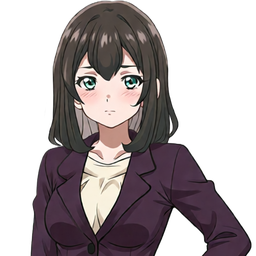
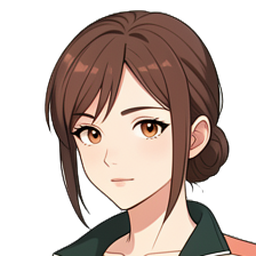
G4a-MAYU: integrate complete Mayu v7 character package (#314)
* Integrate Mayu v7 seven-asset sporty character package

* Refresh reviewed Linux WebKit lineup digest for Mayu v7

diff --git a/tests/CharacterArchiveAdoption.test.ts b/tests/CharacterArchiveAdoption.test.ts
@@ -8,7 +8,9 @@ import {
   type ProductionCharacterKey,
 } from '../src/data/characterProduction';
 
[1 lines of base64/hex data omitted]
+// Original archive baseline, with the complete Mayu v7 replacement integrated
+// on 2026-10-01. Provenance: docs/reviews/MAYU_V7_INTEGRATION_2026-10-01.md.
[1 lines of base64/hex data omitted]
 const characterDigests: Readonly<Record<ProductionCharacterKey, string>> = {
[2 lines of base64/hex data omitted]
@@ -16,7 +18,7 @@ const characterDigests: Readonly<Record<ProductionCharacterKey, string>> = {
[7 lines of base64/hex data omitted]
 };
@@ -38,7 +40,7 @@ const digestAssets = (paths: readonly string[]): string => sha256(
 );
 
 describe('ANM-030B0C complete character archive adoption', () => {
-  it('locks every seven-asset character package to the approved source archive', () => {
+  it('locks every seven-asset character package to its adopted source baseline', () => {
     for (const key of productionCharacterKeys) {
       const paths = assetsFor(key);
       expect(paths, key).toHaveLength(7);

diff --git a/e2e/tests/visual-regression.pw.ts b/e2e/tests/visual-regression.pw.ts
@@ -24,7 +24,10 @@ const goldenOptions = {
   maxDiffPixelRatio: 0.002,
 } as const;
 
[1 lines of base64/hex data omitted]
+// Linux mobile WebKit baseline after the complete Mayu v7 replacement.
+// Reviewed CI attachment: run 36854301920; both attempts produced this digest.
+// Provenance: docs/reviews/MAYU_V7_INTEGRATION_2026-10-01.md.
[1 lines of base64/hex data omitted]
 
 async function waitForVisualIdle(page: Page): Promise<void> {
   await expect.poll(async () => page.locator('img').evaluateAll((images) =>

diff --git a/src/data/characterProduction.ts b/src/data/characterProduction.ts
@@ -201,8 +201,8 @@ export const characterProductionManifest: CharacterProductionManifest = {
     mayu: production(
       'mayu', 'Маю Хаясака', 'Маю', 'МАЮ', 'exact',
       'pose_b_phone_documents.png', 'portrait_neutral_256.png',
-      { left: 268, top: 29, right: 756, bottom: 1508 },
-      190,
+    { left: 295, top: 42, right: 728, bottom: 1521 },
+    176,
     ),
     rina: production(
       'rina', 'Рина Сираиси', 'Рина', 'РИНА', 'exact',

diff --git a/docs/reviews/G4A_ART_REVIEW_2026-09-30.md b/docs/reviews/G4A_ART_REVIEW_2026-09-30.md
@@ -37,11 +37,19 @@ G0 остаётся accepted; KI-002 проверяется отдельно в 
 Канон: 22 года, экономика, казначей студсовета и посредник администрации;
 роль и сюжет не меняются. Причина отказа: слишком похожа на Мику.
 
-1. Создать один новый neutral master как кандидат вне `public/assets` и runtime manifest.
-   Предложение: собранные каштановые волосы с открытым лбом, янтарные глаза,
-   тёмно-зелёный жакет, простая поза с опущенными руками. Это не утверждённый новый канон внешности.
-2. Утвердить с пользователем лицо, причёску, палитру, взрослую внешность и отличие от Мику;
-   проверить рядом с остальным составом. Генерация сама по себе не является приёмкой.
+1. **Дизайн и основная поза утверждены пользователем 2026-09-30.** Дизайн v5b:
+   каштановые волосы в низкой гуле, янтарные глаза, короткий жёлтый спортивный топ,
+   укороченная зелёная мастерка с молочными рукавами и коралловыми вставками,
+   тёмно-синие джоггеры и сочетающиеся кроссовки. Основной master — v6:
+   лёгкий разворот корпуса, обе руки за спиной, без повторяющейся руки на бедре.
+   Использован финальный гостевой ComfyUI v10 TRUE_3D / Flux2-Klein, два прохода по 8 шагов.
+2. Утверждённый локальный master: `output/art-review/mayu-neutral-v6-primary.png`
[1 lines of base64/hex data omitted]
+   white-reference: `output/art-review/mayu-neutral-v6-primary-white.png`
[1 lines of base64/hex data omitted]
+   Это исходник 624×1248 вне runtime, ещё не нормализованный production asset.
+   Проверка lineup/eye-line/роста рядом с остальным составом остаётся обязательной.
+   Приёмка дизайна и основной позы не переносится автоматически на остальные эмоции.
 3. Только после утверждения подготовить согласованные neutral/smile/serious/surprised/
    embarrassed Pose A, `pose_b_phone_documents.png` и `portrait_neutral_256.png`.
 4. Для stage assets сохранить контракт 1024×1536 RGBA, pivot `(0.5, 1)`, общую камеру/
@@ -51,6 +59,21 @@ G0 остаётся accepted; KI-002 проверяется отдельно в 
    приёмку новых hash и проверить реальные сцены/портрет/телефон. Не смешивать старый
    дизайн Маю с новым и не менять утверждённые assets остальных персонажей.
 
-Старые файлы пока остаются runtime fallback. G4a-MAYU не accepted и G4a не закрыт.
+### Пакет Маю v7 — локально интегрирован 2026-10-01
+
+От утверждённого v6 подготовлены семь кандидатных PNG в
+`output/art-review/mayu-v7-package/candidate/public/assets/characters/mayu/`:
+пять Pose A, Pose B с телефоном и документами, neutral portrait.
+Stage canvas — 1024×1536 RGBA, portrait — 256×256 RGBA, alpha-height — 1479 px.
+Проверены одинаковые alpha bounds всех пяти Pose A, неизменность pixels за пределами
+face ROI и точное совпадение alpha. Промпты, hash/геометрия и QA сохранены рядом с пакетом.
+По запросу пользователя все семь PNG заменены в runtime 2026-10-01 без смешивания
+дизайнов. Metadata обновлены: Pose A bounds `(295,42)-(728,1521)`, eye-line 176 px;
+рост 1479 px сохранён. Подробности и hash: [интеграция v7](MAYU_V7_INTEGRATION_2026-10-01.md).
+Ручная lineup/scene/device приёмка остаётся открытой. Старый экспорт ревью и его
+33 rework / 13 blocker не переписаны; они описывают исходные изображения, не v7.
+
+Старые файлы вынесены в локальный backup, а не используются как runtime fallback.
+G4a-MAYU остаётся active до ручной игровой проверки; G4a не закрыт.
 Для закрытия общего G4a нужно исправить или явно согласовать исключение по всем 33 rework,
 снять все 13 blocker и выполнить интегрированную art/runtime проверку.

diff --git a/docs/reviews/MAYU_V7_INTEGRATION_2026-10-01.md b/docs/reviews/MAYU_V7_INTEGRATION_2026-10-01.md
@@ -1,0 +1,65 @@
+# Маю v7 — локальная интеграция
+
+Дата: 2026-10-01. Статус: **локально интегрировано; ручная игровая приёмка открыта**.
+Интеграция выполнена по запросу пользователя. По последующему запросу подготовлен
+отдельный GitHub PR поверх актуального main; merge/deploy не выполнялись агентом.
+
+## Состав и происхождение
+
+Все семь файлов в `public/assets/characters/mayu/` заменены единым пакетом:
+пять эмоций Pose A, `poses/pose_b_phone_documents.png`,
+`medallions/portrait_neutral_256.png`. Пути и сюжетная роль не менялись.
+Исходник — утверждённая поза v6 и спортивный дизайн v5b; ComfyUI final guests v10
+Flux2-Klein, два прохода по 8 шагов. Промпты и API graphs сохранены в
+`output/art-review/mayu-v7-package/workflows/`, редактируемые визуальные graphs —
+в `visual-workflows/` того же пакета и в ComfyUI `UPDS_Mayu_v7_EDITABLE`.
+
+Кандидаты: `output/art-review/mayu-v7-package/candidate/public/assets/characters/mayu/`.
+Backup прежних семи PNG:
+`output/art-review/mayu-v7-package/backup-before-integration-20261001/public/assets/characters/mayu/`.
+Для отката также восстановить прежние bounds `(268,29)-(756,1508)`, eye-line 190 px
+в production manifest/doc mirror и прежние digest из Git. Backup вне runtime.
+
+## Геометрия и воспроизводимость
+
+Stage: 1024×1536 RGBA; portrait: 256×256 RGBA; alpha-height: 1479 px.
+Pose A bounds `(295,42)-(728,1521)`, Pose B `(294,42)-(729,1521)`;
+правый/нижний край исключающий. Eye-line neutral: 176 px, визуальная отметка
+по центрам глаз; финальная оценка рядом с остальным составом остаётся ручной.
+Pivot `(0.5,1)`, scale 1, yPercent 0. Тело и alpha совпадают между пятью эмоциями;
+face ROI `(452,142,123,108)`. Проверки кандидатов сохранены в QA JSON пакета.
+
+Перед копированием и после него SHA-256 всех семи PNG сверены с candidate-manifest.
+Digest семифайловой Маю:
[1 lines of base64/hex data omitted]
+Digest полного runtime набора из 63 файлов:
[1 lines of base64/hex data omitted]
+Остальные восемь character digests не изменены.
+Контрольные суммы закреплены в `tests/CharacterArchiveAdoption.test.ts`;
+геометрия — в `src/data/characterProduction.ts` и doc mirror.
+
+## Проверка и оставшаяся приёмка
+
+Автоматические gates пройдены: полный suite — 148 файлов / 726 тестов,
+включая character/assets/docs audit; lint и production build успешны.
+Сборка сообщает прежнее предупреждение о размере JS bundle, не ошибку.
+
+PR #314: первый GitHub Quality gate и Chromium E2E пройдены. Mobile WebKit
+остановился только на прежнем digest общего Scene Studio lineup после замены Маю.
+Проверен Linux CI attachment `full-cast-lineup` из run `36854301920`:
[1 lines of base64/hex data omitted]
+Оба запуска (основной и retry) дали тот же hash. 2026-10-01 обновлён только
+`fullCastLineupDigest` в `e2e/tests/visual-regression.pw.ts` с этим provenance.
+Остальные Golden Samples и строгая проверка digest не изменены;
+Windows snapshots не создавались. Повторный GitHub Browser Gate требуется
+для подтверждения исправления; это не означает пользовательскую device-приёмку.
+Они не заменяют ручной просмотр. Для завершения G4a-MAYU:
+
+- Сравнить Маю с Оноэ и Мику в Scene Studio, проверить рост/eye-line и опору ног.
+- Просмотреть все пять эмоций подряд: тело не должно прыгать.
+- Проверить Pose B и портрет, обрезку диалогом и отсутствие старого дизайна.
+- После публикации проверить на телефоне свежую версию без старого PWA cache.
+
+Исходный арт-экспорт 2026-09-30 не изменялся. Его 33 rework / 13 blocker относятся
+к прежним hash. Остальные 26 замечаний, включая шесть blocker, остаются в очереди.
+G4a-MAYU и общий G4a пока не закрыты; G0/G3 остаются accepted.

diff --git a/docs/ROADMAP_RU.md b/docs/ROADMAP_RU.md
@@ -8,8 +8,12 @@ VN-портрет без рамки и карточки свидетеля. По
 
 G4a — **ART REVIEW COMPLETE / REMEDIATION ACTIVE**, 2026-09-30: локально просмотрены все
 150 изображений; 117 approved, 33 rework, из них 13 отмечены blocker. Это не закрывает G4a
-и не заменяет проверки в игре/на телефоне. Первый шаг — `G4a-MAYU`: новый neutral master
-Маю, отличимый от Мику; после утверждения — полный семифайловый пакет. Очередь и исходные
+и не заменяет проверки в игре/на телефоне. `G4a-MAYU`: дизайн v5b и основная поза v6
+(лёгкий разворот, руки за спиной) утверждены пользователем. Полный семифайловый пакет v7
+нормализован и 2026-10-01 интегрирован локально целиком: пять эмоций, Pose B и портрет.
+Геометрия и контрольные суммы обновлены; далее ручная lineup/scene/device проверка.
+Срез пока active; изменения отправляются отдельным PR, merge/deploy ещё не выполнены.
+Очередь и исходные
 комментарии: [`reviews/G4A_ART_REVIEW_2026-09-30.md`](reviews/G4A_ART_REVIEW_2026-09-30.md).
 
 Status: **G0 device accepted / G3 guest presentation accepted / release validation in progress**. G0 closed by explicit user acceptance on 2026-09-30 after merged PR #311 (G0-PWA-002 R4). KI-001/KI-003/KI-004 closed; final offline/update/save/device regression remains in G5c, with KI-002 open.
@@ -181,7 +185,7 @@ Post-launch expansion only. It must not consume base-release capacity.
 
 ## Recommended immediate sequence
 
-1. **G4a — исправления по завершённому арт-ревью:** 117/150 approved; 33 rework, включая 13 blocker. Начать с `G4a-MAYU`: утвердить новый neutral master, затем заменить семь assets единым согласованным пакетом. Далее исправить отмеченные эмоции/глаза, alpha, позу Рины и три бонуса по [отчёту](reviews/G4A_ART_REVIEW_2026-09-30.md); повторно принять изменённые файлы и проверить в игре. Не переделывать 117 утверждённых изображений без нового дефекта. G3 shared presentation остаётся accepted, но улыбка Винсента требует отдельной правки в G4a.
+1. **G4a — исправления по завершённому арт-ревью:** исходно 117/150 approved; 33 rework, включая 13 blocker. `G4a-MAYU`: семь assets v7 локально интегрированы 2026-10-01; далее ручная lineup/scene/device приёмка. Затем исправить оставшиеся 26 замечаний (шесть blocker): эмоции/глаза, alpha, позу Рины и три бонуса по [отчёту](reviews/G4A_ART_REVIEW_2026-09-30.md). Не переделывать 117 утверждённых изображений без нового дефекта. G3 shared presentation остаётся accepted, но улыбка Винсента требует отдельной правки в G4a.
 2. **G5a — финальная RU/BE/EN вычитка:** editorial pass RU интегрирован; остаются финальные языковые/paging/overflow проверки.
 3. **G5b — human Match-3 playtest:** balance, design и variety всех 22 уровней.
 4. **G5 — full playthrough и asset crawl:** Story `0–21`, три финала, progression и загруженная графика.

diff --git a/docs/RELEASE_BACKLOG_RU.md b/docs/RELEASE_BACKLOG_RU.md
@@ -31,8 +31,12 @@ Status: **active release-planning source**, ANM-030B0H + ANM-030B0I + ANM-030B1B
 
 Все 150 изображений просмотрены: **117 approved / 33 rework / 13 blocker**.
 G4a остаётся active до исправлений, повторной пользовательской приёмки и runtime-проверки.
-Первым выполняется `G4a-MAYU`: новый дизайн и neutral master Маю на утверждение,
-затем пять Pose A, Pose B и medallion. Остальные 26 замечаний не теряются:
+Первым выполняется `G4a-MAYU`: дизайн v5b и основная поза v6 уже утверждены пользователем.
+Семифайловый пакет v7 нормализован и 2026-10-01 интегрирован локально целиком.
+Геометрия/eye-line и hash-baseline обновлены, старые PNG сохранены для отката.
+Далее ручная проверка lineup, эмоций, Pose B и портрета в игре/на телефоне;
+изменения отправляются отдельным GitHub PR; merge/deploy остаются отдельным шагом.
+Остальные 26 замечаний не теряются:
 эмоции/глаза Мику, Оноэ, Рины, Куросэ и Винсента; alpha Мику; волосы Оноэ;
 зрачок Эми; простая Pose A Рины; читаемость трёх бонусов.
 Точная очередь, границы и исходный JSON: [отчёт G4a](reviews/G4A_ART_REVIEW_2026-09-30.md).
@@ -322,7 +326,7 @@ Post-launch expansion only. Не расходует base-release capacity.
 
 ## Рекомендуемая последовательность от текущего `main`
 
-1. **G4a — исправления арт-ревью:** 33 rework / 13 blocker; начать с `G4a-MAYU` (утверждение neutral master → семь согласованных assets). Затем пройти остальные замечания по [отчёту](reviews/G4A_ART_REVIEW_2026-09-30.md), повторную приёмку и runtime-проверку. 117 approved не переделывать без нового дефекта; G3 shared presentation остаётся accepted, улыбка Винсента исправляется отдельно.
+1. **G4a — исправления арт-ревью:** 33 rework / 13 blocker в исходном ревью; `G4a-MAYU` — семь assets v7 локально интегрированы 2026-10-01, далее ручная lineup/scene/device приёмка. Затем пройти остальные 26 замечаний (шесть blocker) по [отчёту](reviews/G4A_ART_REVIEW_2026-09-30.md), повторную приёмку и runtime-проверку. 117 approved не переделывать без нового дефекта; G3 shared presentation остаётся accepted, улыбка Винсента исправляется отдельно.
 2. **G5a — финальная RU/BE/EN вычитка:** editorial pass RU интегрирован; остаются финальные языковые/paging/overflow проверки.
 3. **G5b — human Match-3 playtest:** balance, design и variety всех 22 уровней.
 4. **G5 — full playthrough и asset crawl:** Story `0–21`, три финала, progression и загруженная графика.
